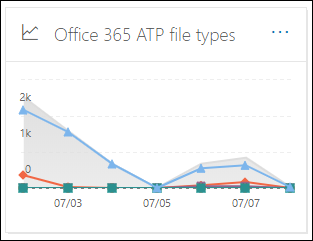
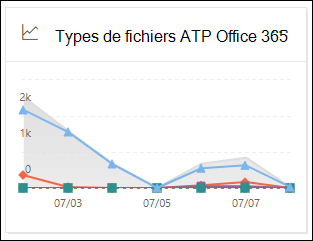
commit translated contents

Changed region(s): [[0.1725, 0.1162, 0.9201, 0.2033]]

diff --git a/microsoft-365/commerce/billing-and-payments/view-your-bill-or-invoice.md b/microsoft-365/commerce/billing-and-payments/view-your-bill-or-invoice.md
@@ -4,7 +4,7 @@ f1.keywords:
 - NOCSH
 ms.author: cmcatee
 author: cmcatee-MSFT
-manager: mnirkhe
+manager: scotv
 audience: Admin
 ms.topic: article
 ms.service: o365-administration
@@ -26,69 +26,57 @@ ms.custom:
 - TRN_M365B
 - OKR_SMB_Videos
 - AdminSurgePortfolio
-ms.assetid: 2ae3ea58-4fce-4592-91d6-46e9ae3ec218
 description: Recherchez votre facture ou relevé de facturation dans le Centre d’administration Microsoft 365. Vous pouvez également enregistrer et imprimer une copie de votre facture.
-ms.openlocfilehash: 7360f2bb73f78450143d5f1428ae90aa5bc0e0a1
-ms.sourcegitcommit: 973f5449784cb70ce5545bc3cf57bf1ce5209218
+ms.openlocfilehash: 81c3a03207fd8f35c975026ebd2a9a0334fc9407
+ms.sourcegitcommit: fab425ea4580d1924fb421e6db233d135f5b7d19
 ms.translationtype: HT
 ms.contentlocale: fr-FR
-ms.lasthandoff: 06/19/2020
-ms.locfileid: "44816996"
+ms.lasthandoff: 07/31/2020
+ms.locfileid: "46533612"
 ---
 # <a name="view-your-bill-or-invoice"></a>Consulter votre facture
 
-Cet article s’adresse aux personnes dotées d’un abonnement à Microsoft 365 pour les entreprises. Pour suivre les étapes décrites dans cet article, vous devez être administrateur général ou administrateur de facturation.
+Cet article s’adresse aux personnes disposant d’un abonnement Microsoft 365 pour les entreprises.
   
 Si vous avez besoin d’aide pour identifier les frais qui apparaissent sur votre facture, voir [Comprendre votre facture](understand-your-invoice2.md) pour bénéficier d’informations détaillées.
   
- **Vous n’êtes pas administrateur ?** Demandez de l’aide à votre administrateur informatique. 
-  
- **Vous rencontrez un problème avec votre facture ?** [Contacter le support technique pour les produits d’entreprise](../../admin/contact-support-for-business-products.md).
+**Vous rencontrez un problème avec votre facture ?** [Contacter le support technique pour les produits d’entreprise](../../admin/contact-support-for-business-products.md).
 
- Regardez une courte vidéo sur l’affichage de votre facture (notez que votre facture peut être différente de celle de la vidéo). <br><br>
+## <a name="before-you-begin"></a>Avant de commencer
 
-> [!VIDEO https://www.microsoft.com/videoplayer/embed/RE1FGmo] 
-
-Si vous avez trouvé cette vidéo utile, consultez les [séries de formations complètes pour les petites entreprises et les nouveaux utilisateurs de Microsoft 365](https://support.microsoft.com/office/6ab4bbcd-79cf-4000-a0bd-d42ce4d12816).
+Pour suivre les étapes décrites dans cet article, vous devez être administrateur général ou de facturation.
   
 ## <a name="view-a-bill-or-invoice"></a>Consulter une facture
 
-::: moniker range="o365-worldwide"
-
 1. Dans le Centre d’administration, accédez à la page **Factures** \> <a href="https://go.microsoft.com/fwlink/p/?linkid=2102895" target="_blank">Factures & paiements</a>.
-
-::: moniker-end
-
-::: moniker range="o365-germany"
-
-1. Dans le Centre d’administration, accédez à la page **Factures** > <a href="https://go.microsoft.com/fwlink/p/?linkid=848040" target="_blank">Factures & paiements</a>.
-
-::: moniker-end
-
-::: moniker range="o365-21vianet"
-
-1. Dans le Centre d’administration, accédez à la page **Factures** \> <a href="https://go.microsoft.com/fwlink/p/?linkid=2127421" target="_blank">Factures & paiements</a>.
-
-::: moniker-end
-
+    - Si vous utilisez Office 365 Allemagne, accédez à cette page <a href="https://go.microsoft.com/fwlink/p/?linkid=848040" target="_blank">Factures e& paiements</a>.
+    - Si vous utilisez Office 365 géré par 21Vianet, accédez à la page <a href="https://go.microsoft.com/fwlink/p/?linkid=2127421" target="_blank">Factures et paiements</a>.
 2. Sous l’onglet **Factures**, sélectionnez une plage de dates dans la liste déroulante, puis sélectionnez l’ordre à afficher.
-
-3. La page récapitulative.vous pouvez consulter les informations suivantes :
-
-    - solde total, montant dû actuel, date d’échéance du paiement, montant du dernier paiement et date de sa réception ;
-
-    - instructions de paiement ;
-
-    - historique des dernières dates de paiement et montants payés ;
-
-    - date de création de la commande et numéro de commande.
-
+3. Dans la page résumé, vous pouvez voir les éléments, la quantité, le prix, la remise et le total de tous les articles de la facture.
 4. Pour imprimer ou enregistrer une copie PDF de la facture, sélectionnez **Télécharger un fichier PDF**.
 
-## <a name="related-articles"></a>Articles connexes
+## <a name="receive-a-copy-of-your-billing-statement-in-email"></a>Recevoir une copie de votre relevé de facturation par courrier électronique
 
-[Payer sur facture, par carte de crédit ou par compte bancaire](pay-for-your-subscription.md)
-  
-[Gérer les modes de paiement](manage-payment-methods.md)
+Vous pouvez envoyer une copie de votre relevé de facturation par courrier électronique. Dans ce cas :
 
-[ Options de paiement de Minecraft: Education Edition ](https://go.microsoft.com/fwlink/p/?linkid=838761)
+- Un courrier électronique est envoyé aux adresses de courrier principale et secondaire de chaque personne mentionnée comme destinataire de la notification.
+- Vous recevez deux courriers distincts : un premier vous informant que votre facture est prête et contenant des instructions de connexion au Centre d'administration pour la consulter, et un deuxième incluant le relevé de facturation en pièce jointe.
+
+### <a name="to-receive-your-billing-statement-in-email"></a>Pour recevoir votre relevé de facturation par e-mail
+
+1. Dans le Centre d’administration, accédez à la page **Facturation** > <a href="https://go.microsoft.com/fwlink/p/?linkid=853212" target="_blank">Notifications de facturation</a>.
+    - Si vous utilisez Office 365 Allemagne, accédez à la page des <a href="https://go.microsoft.com/fwlink/p/?linkid=853213" target="_blank">Notifications de facturation</a>.
+    - Si vous utilisez Office 365 géré par 21Vianet, accédez à la page des <a href="https://go.microsoft.com/fwlink/p/?linkid=853215" target="_blank">Notifications de facturation</a>.
+1. Sous **Voulez-vous recevoir le relevé de facturation par courrier électronique ?**, positionnez le bouton bascule sur **Activer**.
+
+    Vous pouvez arrêter de recevoir les courriers électroniques incluant les relevés de facturation à tout moment en positionnant le bouton bascule sur **Désactiver**.
+
+## <a name="next-steps"></a>Étapes suivantes
+
+Si vous avez un solde et que vous souhaitez le payer, vous pouvez le faire en ligne. Pour obtenir plus d’informations, voir [Payer votre abonnement](pay-for-your-subscription.md).
+
+## <a name="related-content"></a>Contenu connexe
+
+[Payer sur facture, par carte de crédit ou par compte bancaire](pay-for-your-subscription.md) (article) \
+[Gestion des modes de paiement](manage-payment-methods.md) (article) \
+[Options de paiement de Minecraft: Education Edition](https://go.microsoft.com/fwlink/p/?linkid=838761) (article)
